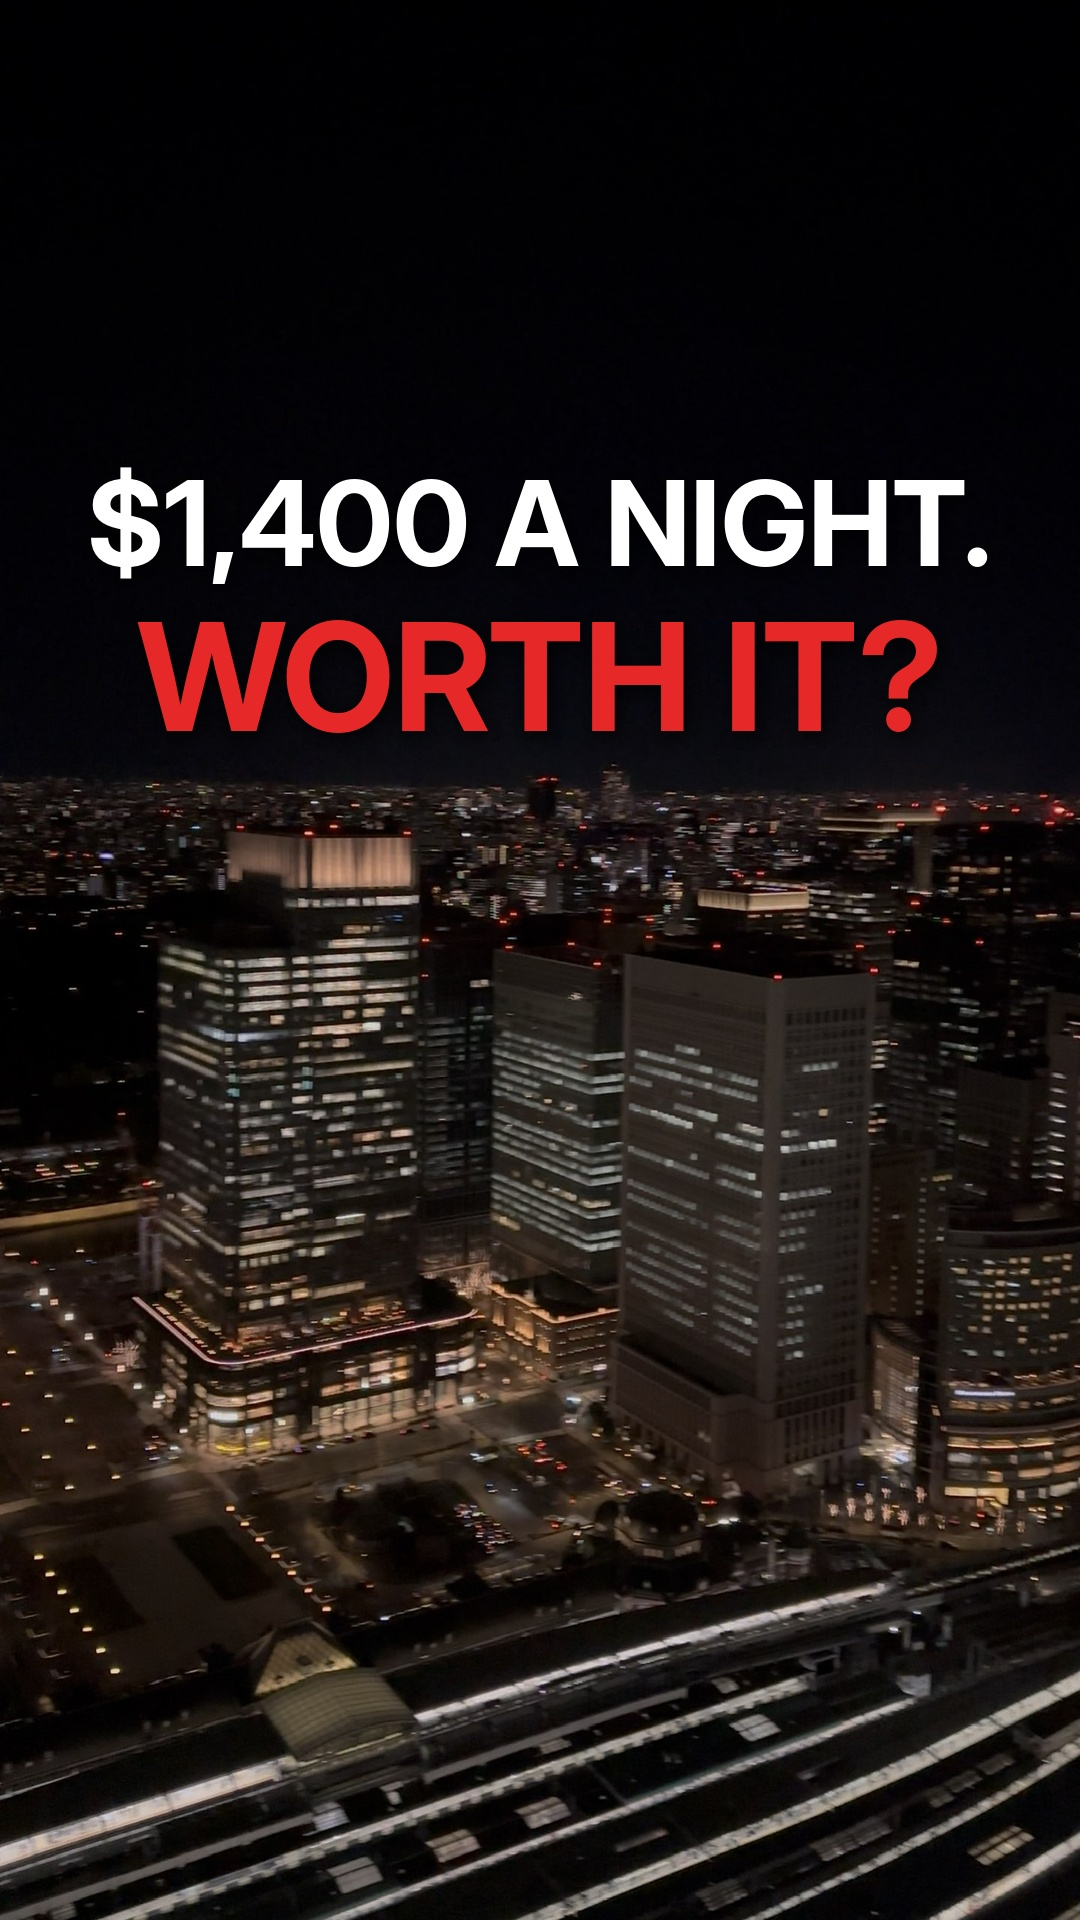
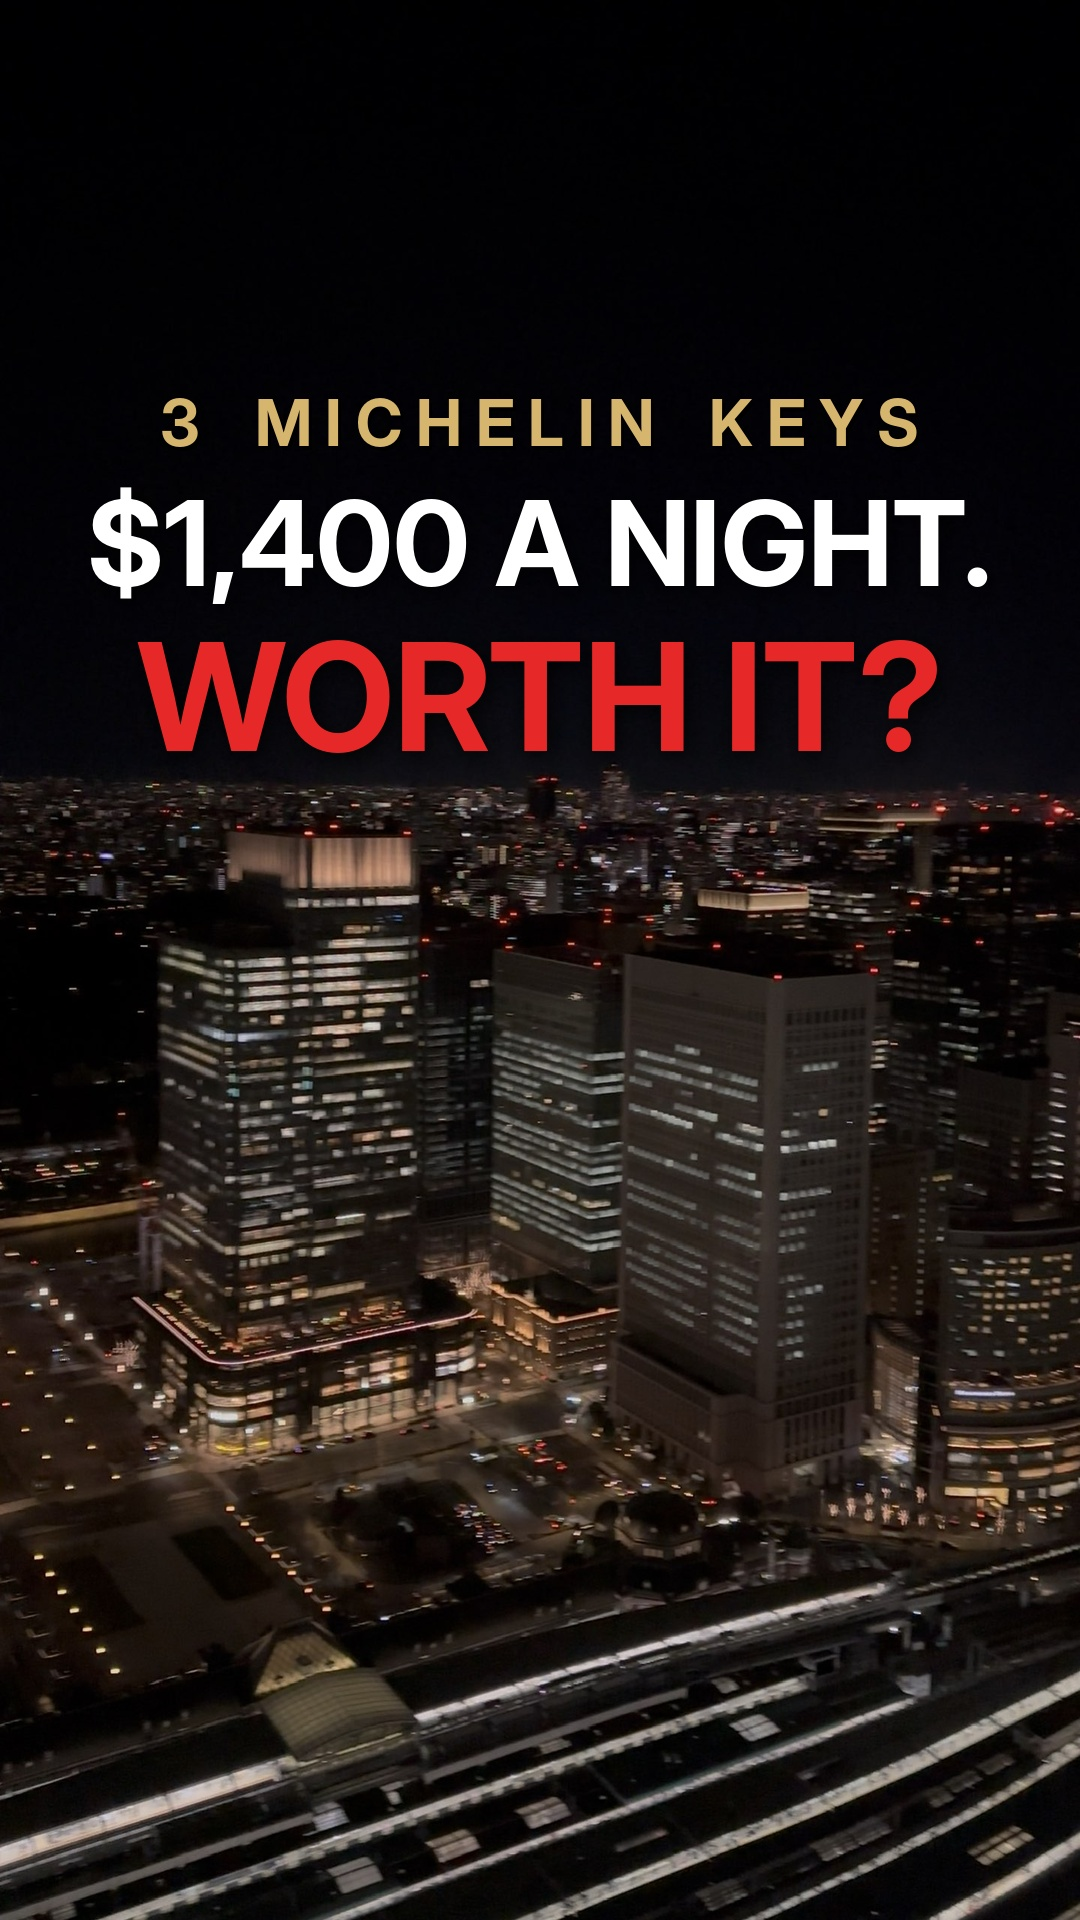
Covers: rating line, Bulgari Tokyo 3 Michelin Keys
Claude-Session: https://claude.ai/code/session_012sBz56Zx9to2cMzoH7bxCs

diff --git a/instagram/covers/make_cover.py b/instagram/covers/make_cover.py
@@ -1,6 +1,7 @@
 #!/usr/bin/env python3
 """Make a 1080x1920 reel cover: photo + two-line text in the 3:4 grid-safe band.
-Usage: make_cover.py IN.jpg OUT.jpg "LINE ONE" "LINE TWO" [text_center_y]
+Usage: make_cover.py IN.jpg OUT.jpg "LINE ONE" "LINE TWO" [text_center_y] [KICKER]
+KICKER is an optional small line above, e.g. "3 MICHELIN KEYS".
 text_center_y is in px on the 1920-tall canvas (default 760). The 3:4 grid
 crop keeps y=240..1680, so keep text between ~300 and ~1600."""
 import sys
@@ -22,6 +23,7 @@ def fit(draw, text, max_w, start):
 def main():
     src, out, l1, l2 = sys.argv[1:5]
     cy = int(sys.argv[5]) if len(sys.argv) > 5 else 760
+    kicker = sys.argv[6] if len(sys.argv) > 6 else None
     im = ImageOps.exif_transpose(Image.open(src)).convert("RGB")
     im = ImageOps.fit(im, (W, H), Image.LANCZOS)
     d = ImageDraw.Draw(im)
@@ -43,6 +45,18 @@ def main():
     for (t, f, b, y, c) in ((l1, f1, b1, top, WHITE), (l2, f2, b2, top + h1 + gap, RED)):
         x = (W - (b[2] - b[0])) // 2 - b[0]
         d.text((x, y - b[1]), t, font=f, fill=c)
+    if kicker:
+        fk = ImageFont.truetype(FONT, 64)
+        spaced = " ".join(kicker)  # letter-spaced
+        spaced = spaced.replace("   ", "    ")
+        bk = d.textbbox((0, 0), spaced, font=fk)
+        while bk[2] - bk[0] > 920:
+            fk = ImageFont.truetype(FONT, fk.size - 4)
+            bk = d.textbbox((0, 0), spaced, font=fk)
+        yk = top - 40 - (bk[3] - bk[1])
+        xk = (W - (bk[2] - bk[0])) // 2 - bk[0]
+        d.text((xk + 3, yk - bk[1] + 4), spaced, font=fk, fill=(0, 0, 0))
+        d.text((xk, yk - bk[1]), spaced, font=fk, fill=(214, 182, 110))
     im.convert("RGB").save(out, quality=95)
     # grid preview (3:4 centre crop) for checking
     prev = im.convert("RGB").crop((0, 240, 1080, 1680))

diff --git a/instagram/covers.md b/instagram/covers.md
@@ -28,4 +28,7 @@ Influencer Marketing Hub; Meta's own docs not checked):
   line + red "WORTH IT?" (Inter Display Bold), soft shadow, and a
   `-grid-preview.jpg` (the 3:4 centre crop) for checking.
 - #2 Bulgari Tokyo: `covers/02-bulgari-tokyo-cover.jpg` (user's night skyline
-  photo, 2026-11-27); text centred at y=600, in the dark sky above the skyline.
+  photo, 2026-11-27); text centred at y=620, in the dark sky above the skyline.
+  Gold letter-spaced line "3 MICHELIN KEYS" above (user, 2026-11-27). Use the
+  rating line on every cover (e.g. "3 MICHELIN STARS", "1 MICHELIN KEY"); text
+  only, no Michelin logo or Key symbol (their trademarks).
